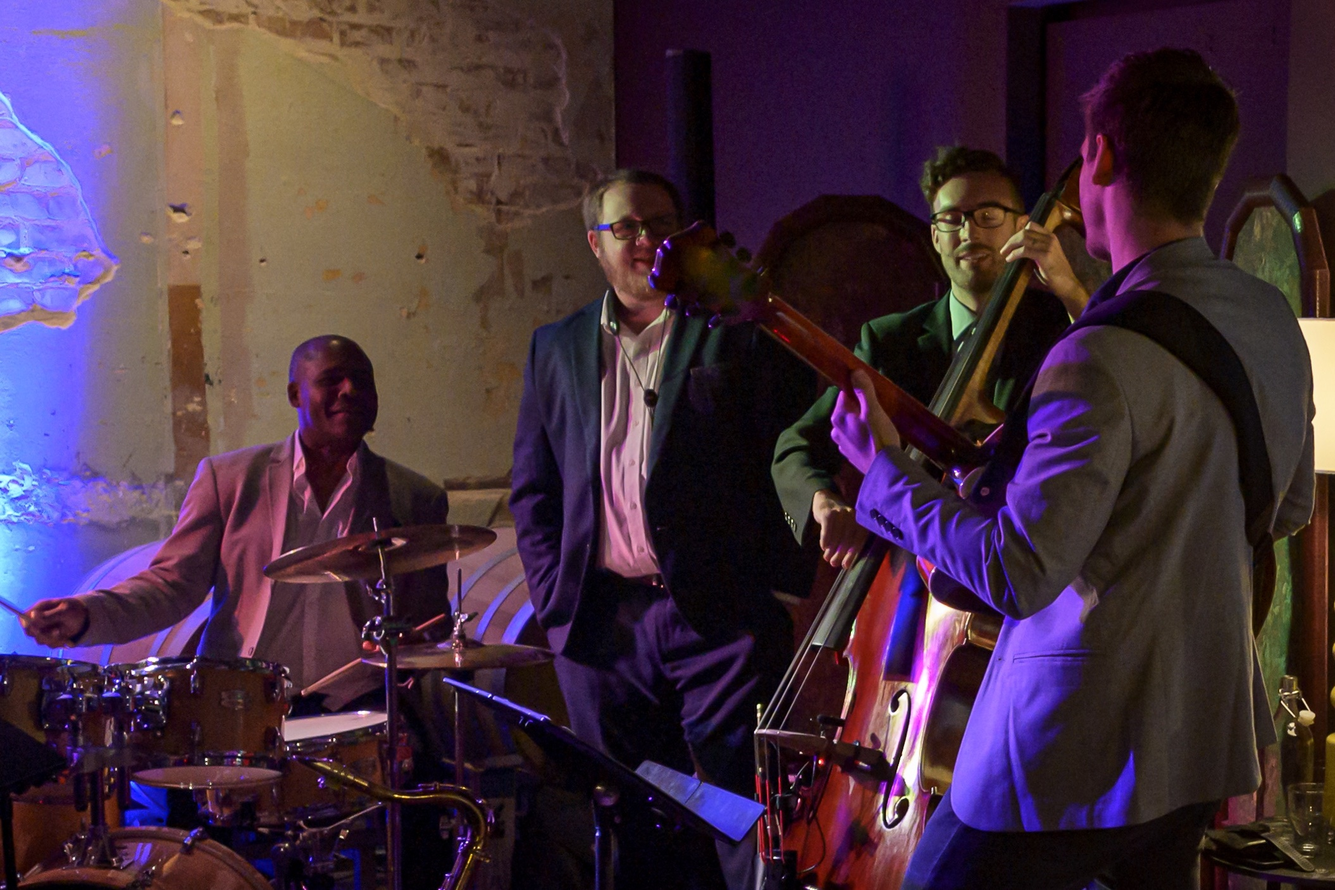
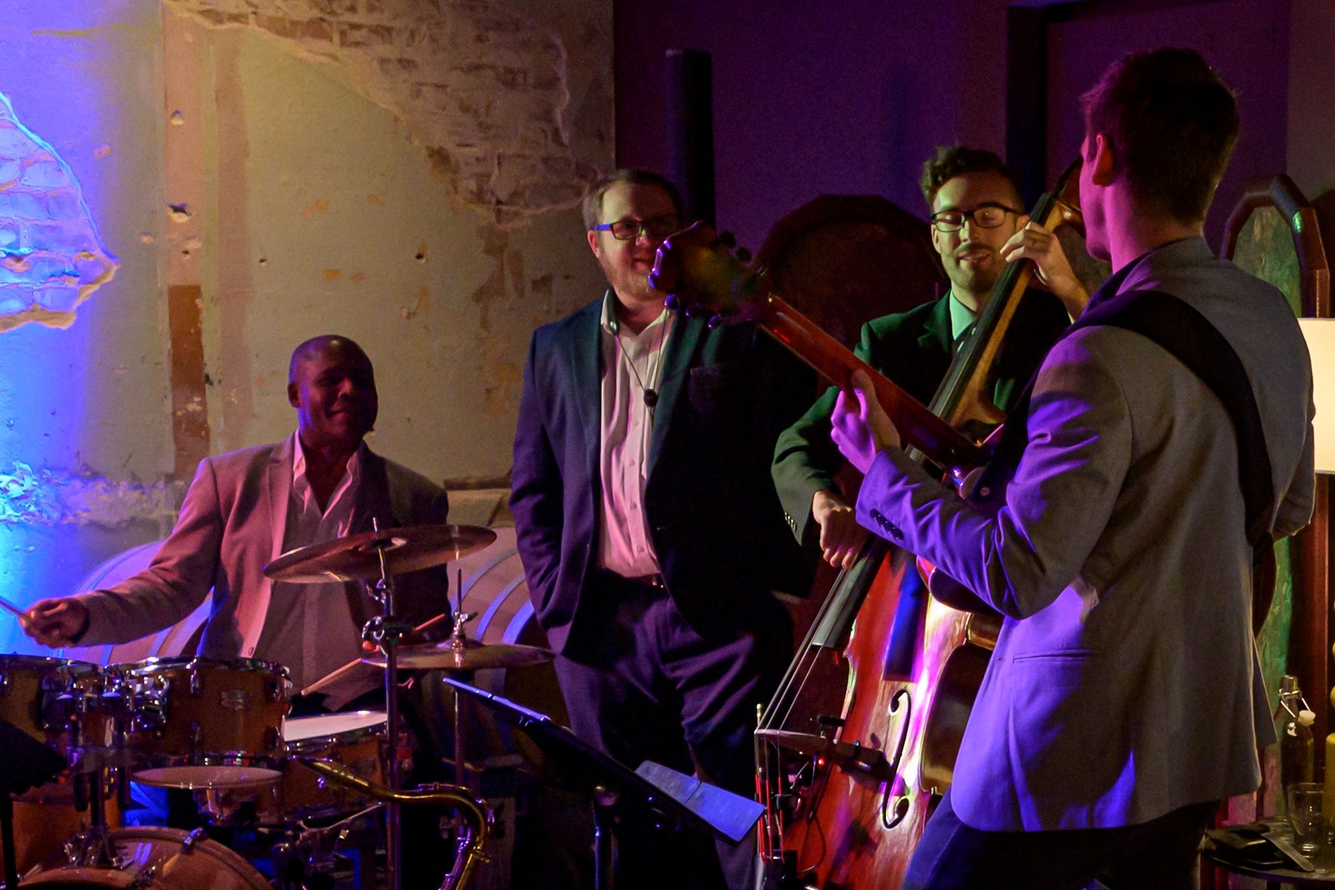
correct image file sizes

diff --git a/src/Components/ImageGroup.tsx b/src/Components/ImageGroup.tsx
@@ -8,10 +8,10 @@ import { Image, Row, Col } from "antd";
 import gsg01 from "../assets/3x2-gsg01.jpg";
 import gsg04 from "../assets/3x4-gsg04.jpg";
 import gsg06 from "../assets/3x2-gsg06.jpg";
-import ochancey01 from "../assets/3x4-ochancey01.png";
+import ochancey01 from "../assets/3x4-ochancey01.jpg";
 import ochancey04 from "../assets/3x4-ochancey04.jpg";
 import ochancey05 from "../assets/3x4-ochancey05.jpg";
-import ochancey06 from "../assets/3x4-ochancey06.jpeg";
+import ochancey06 from "../assets/3x4-ochancey06.jpg";
 
 /**
  * ImageGroup

diff --git a/src/Components/EmailForm.tsx b/src/Components/EmailForm.tsx
@@ -21,10 +21,10 @@ const validateMessages = {
  * once the users submits the message
  */
 export const EmailForm: React.FC<{}> = () => {
-  // TODO: add CAPTCHA support
-  // TODO: add auto reply
-  const [form] = Form.useForm();
+  // Local State
   const [loading, setLoading] = useState(false);
+  // Hooks
+  const [form] = Form.useForm();
 
   // Handle form submition
   const onFinish = (values: any) => {

diff --git a/src/App.tsx b/src/App.tsx
@@ -9,9 +9,9 @@ import "./styles/app.less";
 import { Layout } from "antd";
 
 // Components
-import { Pages } from "./Pages";
-import { Navbar } from "./Components/Navbar";
-import { FooterCredits } from "./Components/FooterCredits";
+import { Pages } from "./pages";
+import { Navbar } from "./components/Navbar";
+import { FooterCredits } from "./components/FooterCredits";
 
 /**
  * App

diff --git a/src/Pages/Contact.tsx b/src/Pages/Contact.tsx
@@ -2,8 +2,8 @@
 import React from "react";
 
 // Components
-import { AboutMe } from "../Components/AboutMe";
-import { EmailForm } from "../Components/EmailForm";
+import { AboutMe } from "../components/AboutMe";
+import { EmailForm } from "../components/EmailForm";
 
 /**
  * Contact Page

diff --git a/src/Components/AudioPlayer.tsx b/src/Components/AudioPlayer.tsx
@@ -8,7 +8,7 @@ import { Slider, Typography, Image } from "antd";
 import { Howl /* Howler */ } from "howler";
 
 // Components
-import { AudioControls } from "../Components/AudioControls";
+import { AudioControls } from "../components/AudioControls";
 
 const { Title } = Typography;
 

diff --git a/src/Pages/Media.tsx b/src/Pages/Media.tsx
@@ -2,7 +2,7 @@
 import React from "react";
 
 // Components
-import { AudioPlayer } from "../Components/AudioPlayer";
+import { AudioPlayer } from "../components/AudioPlayer";
 
 // Tracks
 import { tracks } from "../assets/tracks";

diff --git a/src/Pages/Home.tsx b/src/Pages/Home.tsx
@@ -2,7 +2,7 @@
 import React from "react";
 
 // Components
-import { ImageGroup } from "../Components/ImageGroup";
+import { ImageGroup } from "../components/ImageGroup";
 
 /**
  * Home Page
